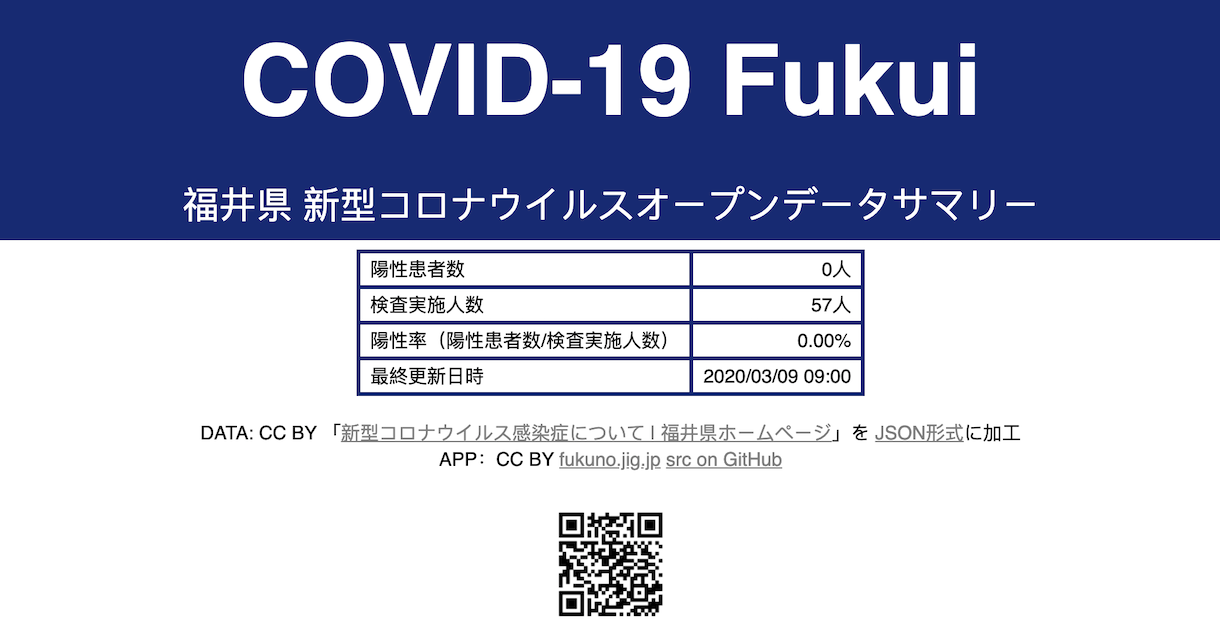
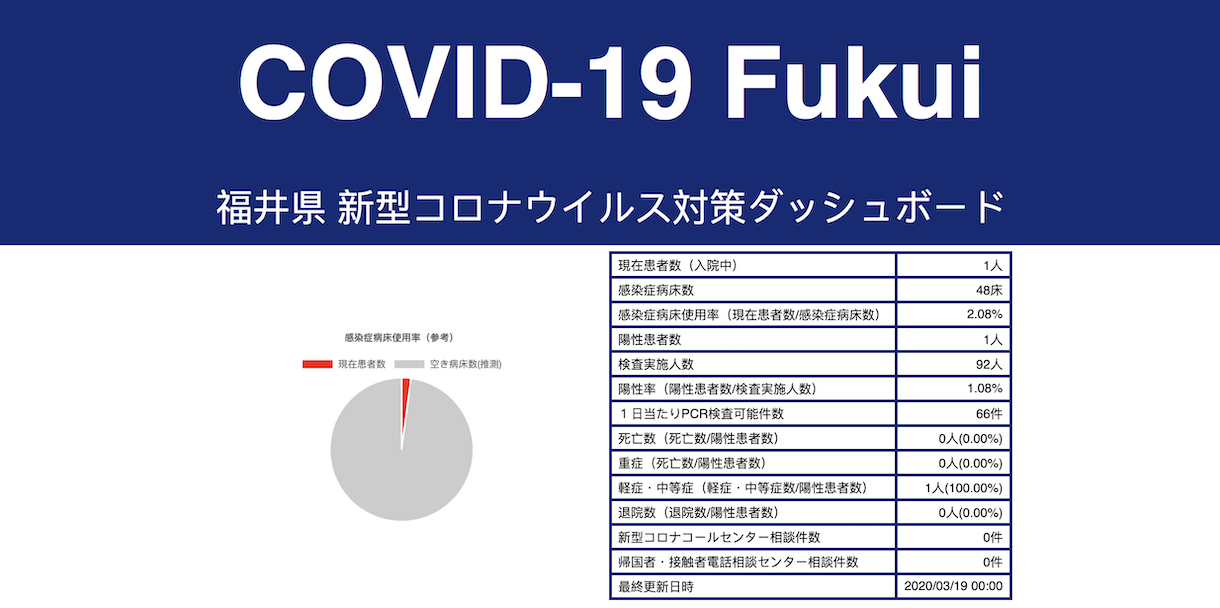
タイトル変更、SS更新、アイコン追加

Changed region(s): [[0.0, 0.2812, 1.0, 1.0], [0.1869, 0.0625, 0.5607, 0.2188], [0.5918, 0.0625, 0.8098, 0.2188]]

diff --git a/fukui.html b/fukui.html
@@ -1,9 +1,9 @@
 <!DOCTYPE html><html><head><meta charset="utf-8"/>
 <meta name="viewport" content="width=device-width, initial-scale=1.0, maximum-scale=1.0, minimum-scale=1.0"/>
-<link rel="apple-touch-icon" href="fukui.png"/>
+<link rel="apple-touch-icon" href="fukui_icon.png"/>
 <meta property="og:image" content="fukui.png"/>
 <meta name="format-detection" content="telephone=no"/>
-<title>COVID-19 Fukui - 福井県 新型コロナウイルスオープンデータサマリー</title>
+<title>COVID-19 Fukui - 福井県 新型コロナウイルス対策ダッシュボード</title>
 <script src="https://fukuno.jig.jp/app/csv/lib/fukuno.js"></script>
 <script src="https://cdnjs.cloudflare.com/ajax/libs/Chart.js/2.9.3/Chart.bundle.js"></script>
 <script>"use strict"
@@ -161,7 +161,7 @@ a {
 </head>
 <body>
 
-<h1 id=title>COVID-19 Fukui</h1><div class=subtitle>福井県 新型コロナウイルスオープンデータサマリー</div>
+<h1 id=title>COVID-19 Fukui</h1><div class=subtitle>福井県 新型コロナウイルス対策ダッシュボード</div>
 
 <div id="main">
   <div id="chart_c"><canvas id="chart"></canvas></div>
